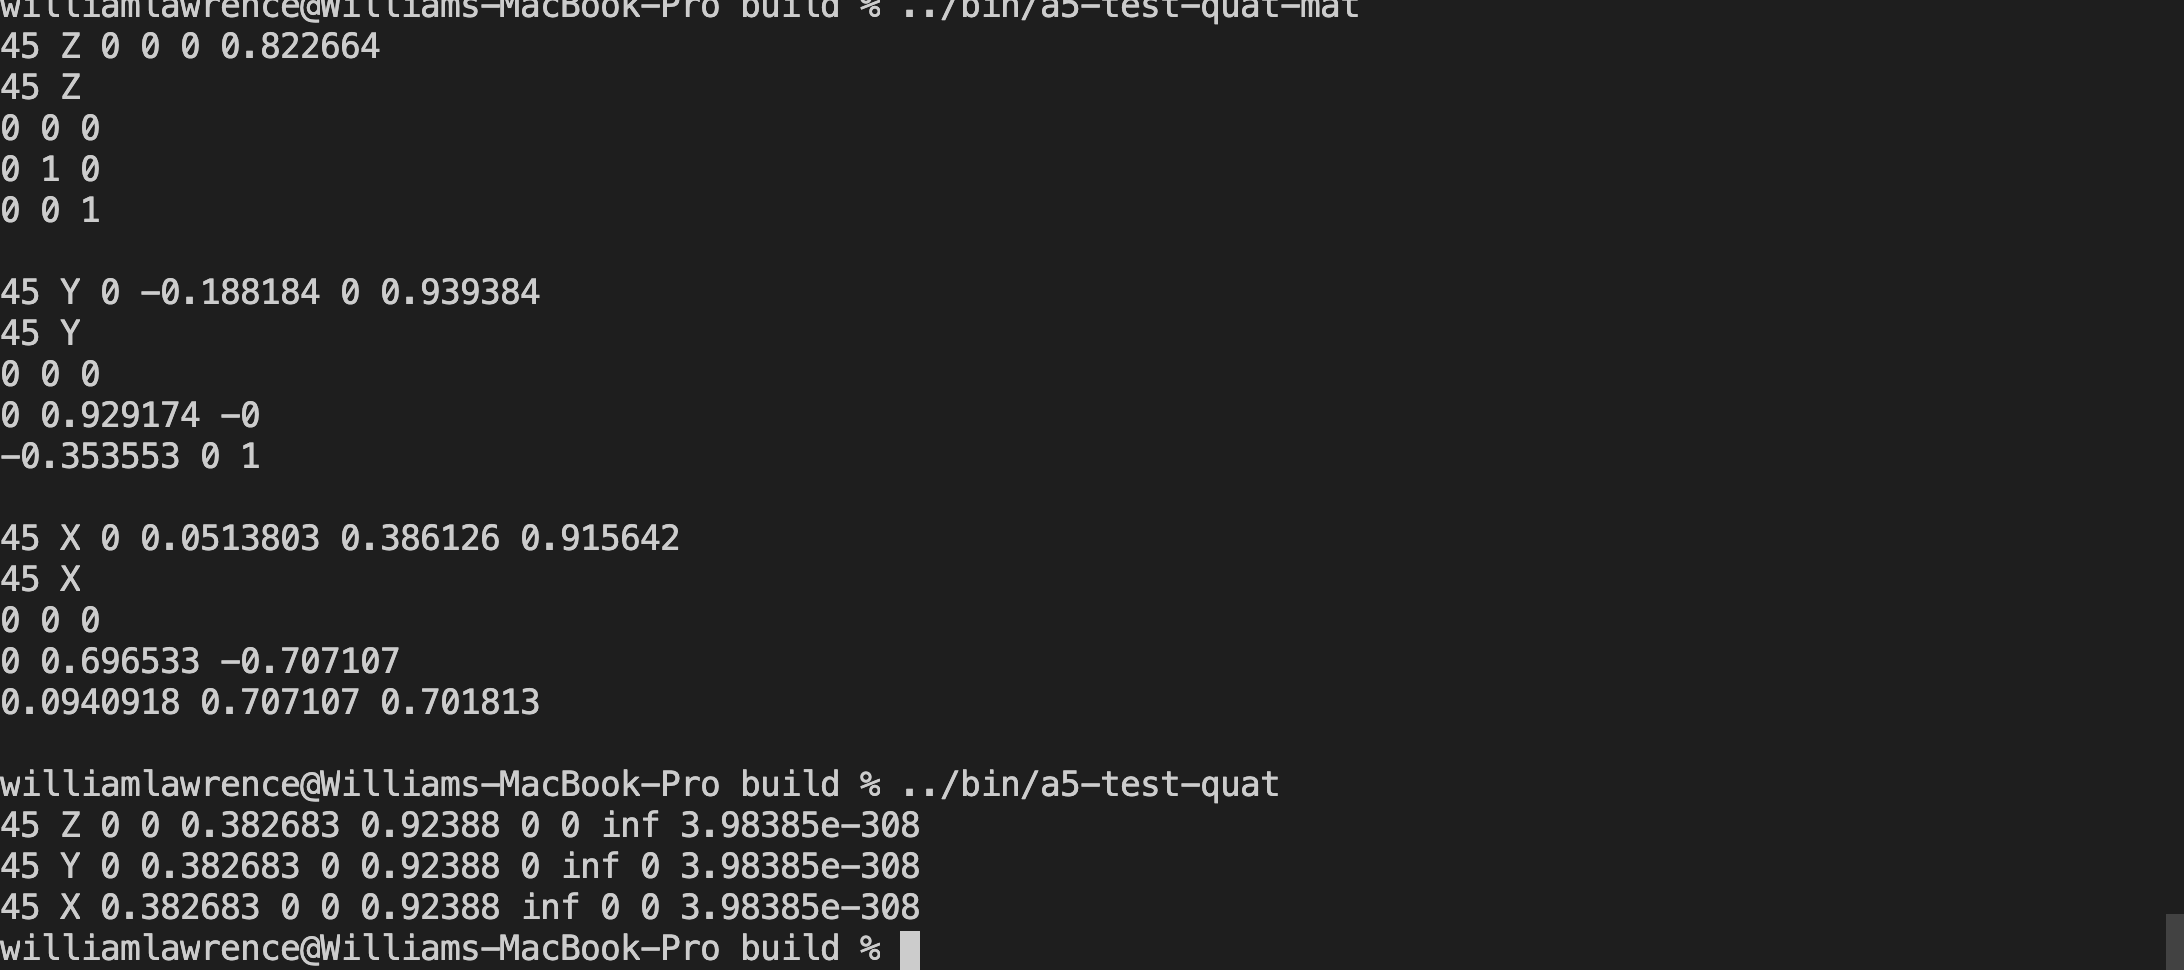
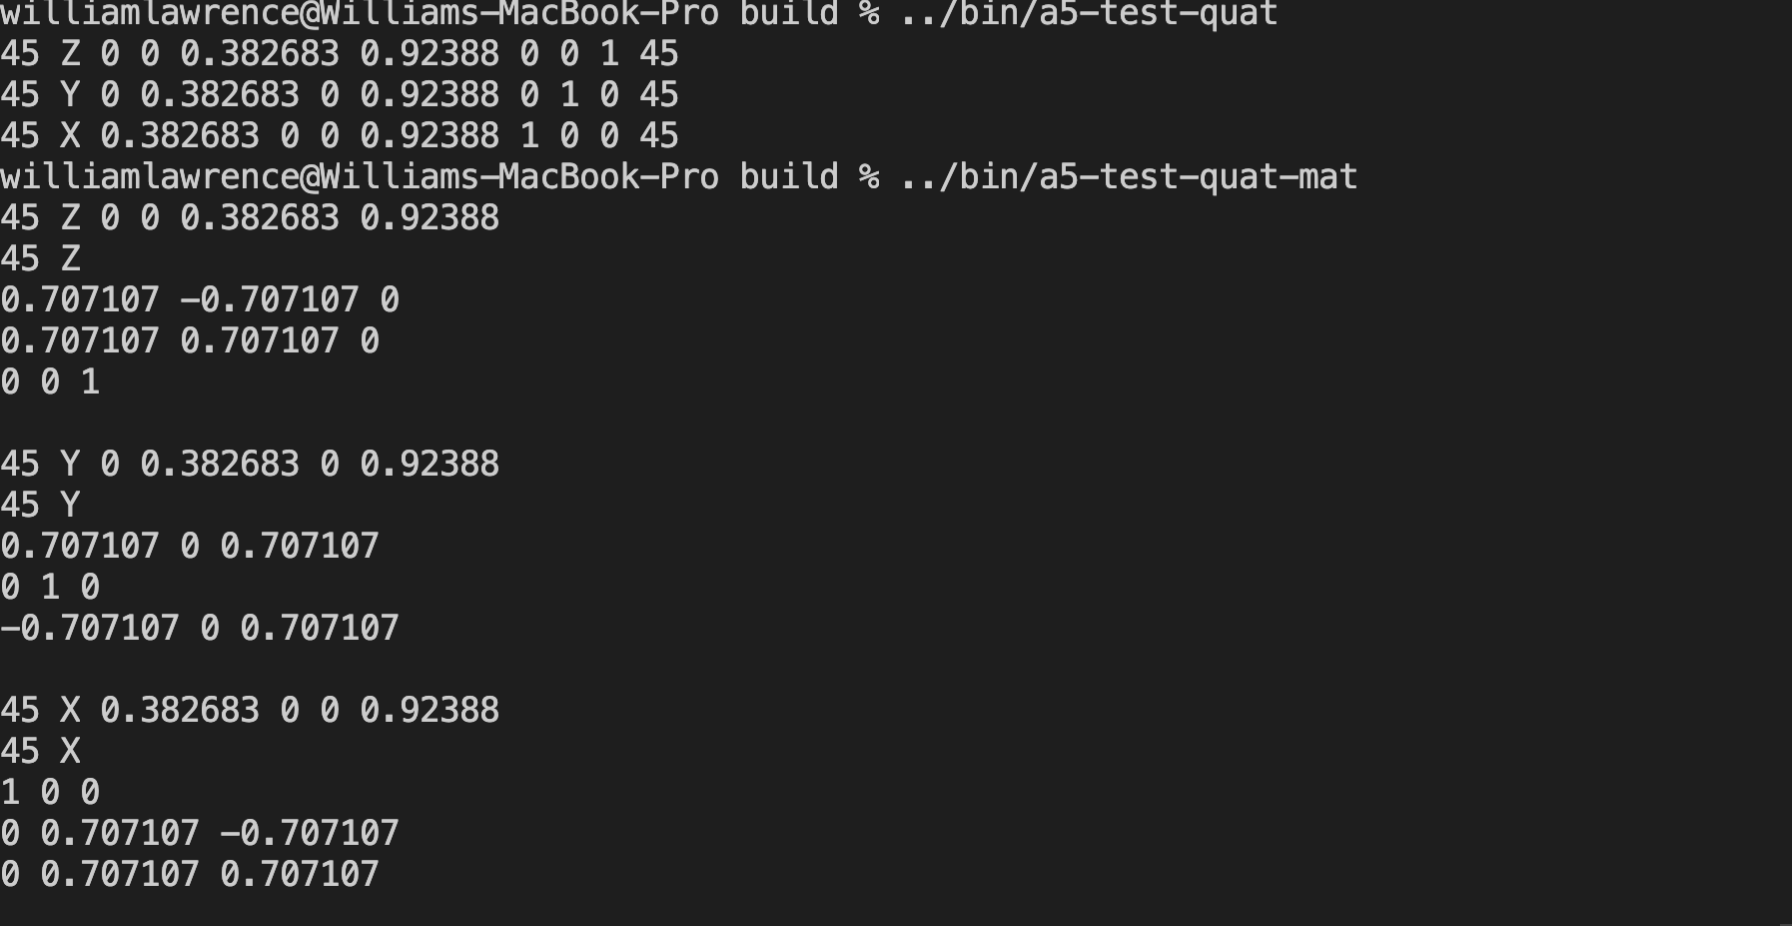
Revisions Assign 5

Changed region(s): [[0.0, 0.0, 0.7812, 1.0], [0.4375, 0.7862, 0.5938, 0.8164], [0.9688, 0.9374, 1.0, 0.9978]]

diff --git a/libsrc/atkmath/quaternion-basecode.cpp b/libsrc/atkmath/quaternion-basecode.cpp
@@ -56,15 +56,15 @@ Matrix3 Quaternion::toMatrix () const
 	//Matrix3 m = Matrix3();
 	Matrix3 Nm = Matrix3();
 	//Matrix3 Nm;
-	Nm[0][0] = 1.0 - 2.0 * (pow(mY, 2) + pow(mZ, 2));
-	Nm[0][1] = 2.0 * ((mX * mY) - (mW * mZ));
-	Nm[0][2] = 2.0 * ((mX * mZ) + (mW * mY));
-	Nm[1][0] = 2.0 * ((mX * mY) + (mW * mZ));
-	Nm[1][1] = 1.0 - 2.0 * (pow(mX, 2) + pow(mZ, 2));
-	Nm[1][2] = 2.0 * ((mY * mZ) - (mW * mX));
-	Nm[2][0] = 2.0 * ((mX * mZ) - (mW * mY));
-	Nm[2][1] = 2.0 * ((mY * mZ) + (mW * mX));
-	Nm[2][2] = 1.0 - 2.0 * (pow(mY, 2) + pow(mX, 2));
+	Nm[0][0] = 1 - 2 * ((mY * mY) + (mZ * mZ));
+	Nm[0][1] = 2 * ((mX * mY) - (mW * mZ));
+	Nm[0][2] = 2 * ((mX * mZ) + (mW * mY));
+	Nm[1][0] = 2 * ((mX * mY) + (mW * mZ));
+	Nm[1][1] = 1 - 2 * ((mX * mX) + (mZ * mZ));
+	Nm[1][2] = 2 * ((mY * mZ) - (mW * mX));
+	Nm[2][0] = 2 * ((mX * mZ) - (mW * mY));
+	Nm[2][1] = 2 * ((mY * mZ) + (mW * mX));
+	Nm[2][2] = 1 - 2 * ((mY * mY) + (mX * mX));
 	//Nm = m;
 	return Nm;
 	
@@ -74,32 +74,33 @@ Matrix3 Quaternion::toMatrix () const
 void Quaternion::fromMatrix(const Matrix3& rot)
 {
 	// TODO
-	double T = rot[1][1] + rot[2][2] + rot[3][3];
-	if(T > 0){
-		double v = .5/ (sqrt(T+1));
-		mW = .25/v;
-		mX = (rot[3][2] - rot[2][3]) *v;
-		mY = (rot[1][3] - rot[3][1]) * v;
-		mZ = (rot[2][1] - rot[1][2]) * v;
-	} else if ((rot[1][1] > rot[2][2]) && (rot[1][1] > rot[3][3])){
-		double v = sqrt(1.0 + rot[1][1] - rot[2][2] - rot[3][3]) * 2;
-		mX = .25 * v;
-		mW = (rot[3][2] - rot[2][3])/v;
-		mY = (rot[1][2] + rot[2][1])/v;
-		mZ = (rot[1][3] + rot[3][1])/v;
-	} else if(rot[2][2] > rot[3][3]){
-		double v = sqrt(1.0 + rot[2][2] - rot[1][1] - rot[3][3]) * 2;
-		mX = (rot[1][2] + rot[2][1])/v;
-		mW = (rot[1][3] - rot[3][1])/v;
-		mY = .25 * v;
-		mZ = (rot[2][3] + rot[3][2])/v;
+	double mX2 = .25 * (1 + rot[0][0] - rot[1][1] - rot[2][2]);
+	double mY2 = .25 * (1 - rot[0][0] + rot[1][1] - rot[2][2]);
+	double mZ2 = .25 * (1 - rot[0][0] - rot[1][1] + rot[2][2]);
+	double mW2 = .25 * (1 + rot[0][0] + rot[1][1] + rot[2][2]);
+
+	if((mX2 > mY2) && (mX2 > mW2) && (mX2 > mZ2)){
+		
+		mX = sqrt(mW2);
+		mW = 1/(4 * mX) * (rot[2][1] - rot[1][2]);
+		mY = 1/(4 * mX) * (rot[1][0] - rot[0][1]);
+		mZ = 1/(4 * mX) * (rot[0][2] - rot[2][0]);
+	} else if ((mY2 > mX2) && (mY2 > mW2) && (mY2 > mZ2)){
+		mY = sqrt(mW2);
+		mW = 1/(4 * mY) * (rot[0][2] - rot[2][1]);
+		mX = 1/(4 * mY) * (rot[1][0] - rot[0][1]);
+		mZ = 1/(4 * mY) * (rot[1][2] - rot[2][1]);
+	} else if((mZ2 > mY2) && (mZ2 > mW2) && (mZ2 > mX2)){
+		mZ = sqrt(mW2);
+		mW = 1/(4 * mZ) * (rot[1][0] - rot[0][1]);
+		mY = 1/(4 * mZ) * (rot[1][2] - rot[2][1]);
+		mX = 1/(4 * mZ) * (rot[0][2] - rot[2][0]);
 
 	}else{
-		double v = sqrt(1.0 + rot[3][3] - rot[1][1] - rot[2][2]) * 2;
-		mW = (rot[2][1] - rot[1][2])/v;
-		mX = (rot[1][3] + rot[3][1])/v;
-		mY = (rot[2][3] + rot[3][2])/v;
-		mZ = .25 * v;
+		mW = sqrt(mW2);
+		mX = 1/(4 * mW) * (rot[2][1] - rot[1][2]);
+		mY = 1/(4 * mW) * (rot[0][2] - rot[2][0]);
+		mZ = 1/(4 * mW) * (rot[1][0] - rot[0][1]);
 	}
 	
 }

diff --git a/assignments/a7-motion/motion_practice.cpp b/assignments/a7-motion/motion_practice.cpp
@@ -35,7 +35,7 @@ int main(int argc, char** argv)
    // Hint: use the skeleton to get the ID for the hand
    // Hint: use extractEulerAngleRO (defined in atk/glmmath.h)
    Joint* hand = skeleton.getByName("Beta:LeftHand\r");
-   vec3 eulerXYZ = vec3(0);
+   //vec3 eulerXYZ = vec3(0);
    //mat3 m = fromQuaternion(hand->getLocalRotation());
    glm::mat3 m;
    

diff --git a/assignments/a11-steering/steerable-basecode.cpp b/assignments/a11-steering/steerable-basecode.cpp
@@ -26,7 +26,7 @@ void ASteerable::senseControlAct(const vec3& veld, float dt)
 	float _force;
 	_force = _mass * kVelKv * (length_of_vd - _state[2]);
 	float _torque;
-	_torque = 1.0 * (-kOriKv * _state[3] + kOriKp * (_thetad - _state[1]))
+	_torque = 1.0 * (-kOriKv * _state[3] + kOriKp * (_thetad - _state[1]));
 
 		// find derivative
 

diff --git a/assignments/a10-ik/ik_controller.cpp b/assignments/a10-ik/ik_controller.cpp
@@ -46,7 +46,7 @@ bool IKController::solveIKCCD(Skeleton& skeleton, int jointid,
 
       }
   }
-  vec3 p = 
-  skeleton.getByID(jointid);
+  //vec3 p = 
+  //skeleton.getByID(jointid);
   return false;
 }
